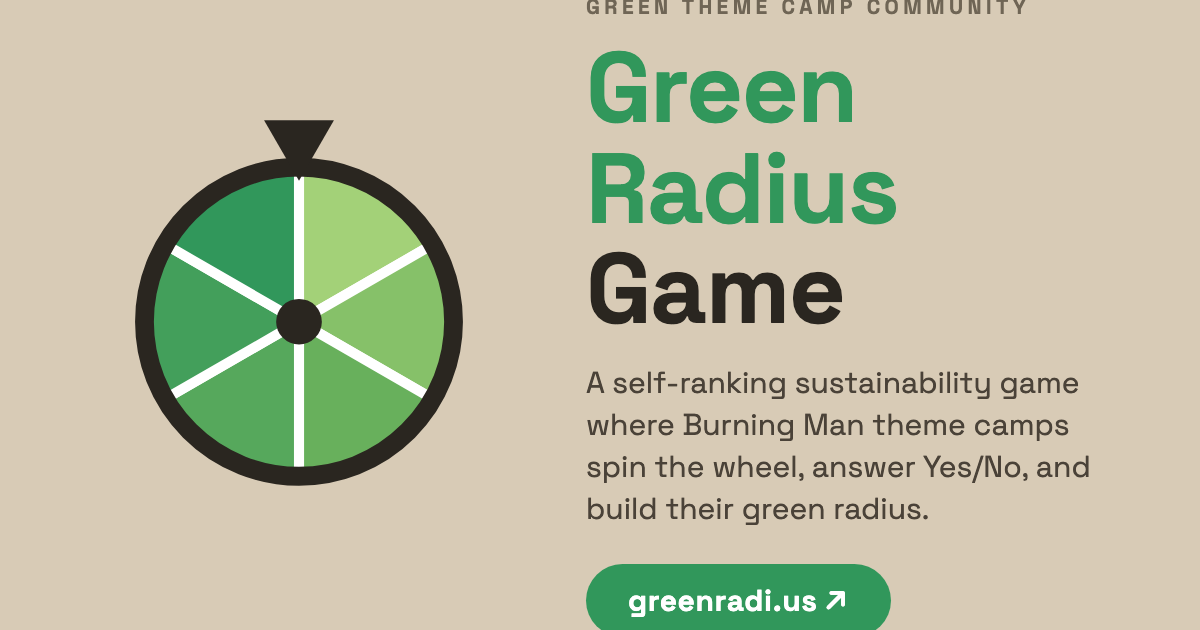
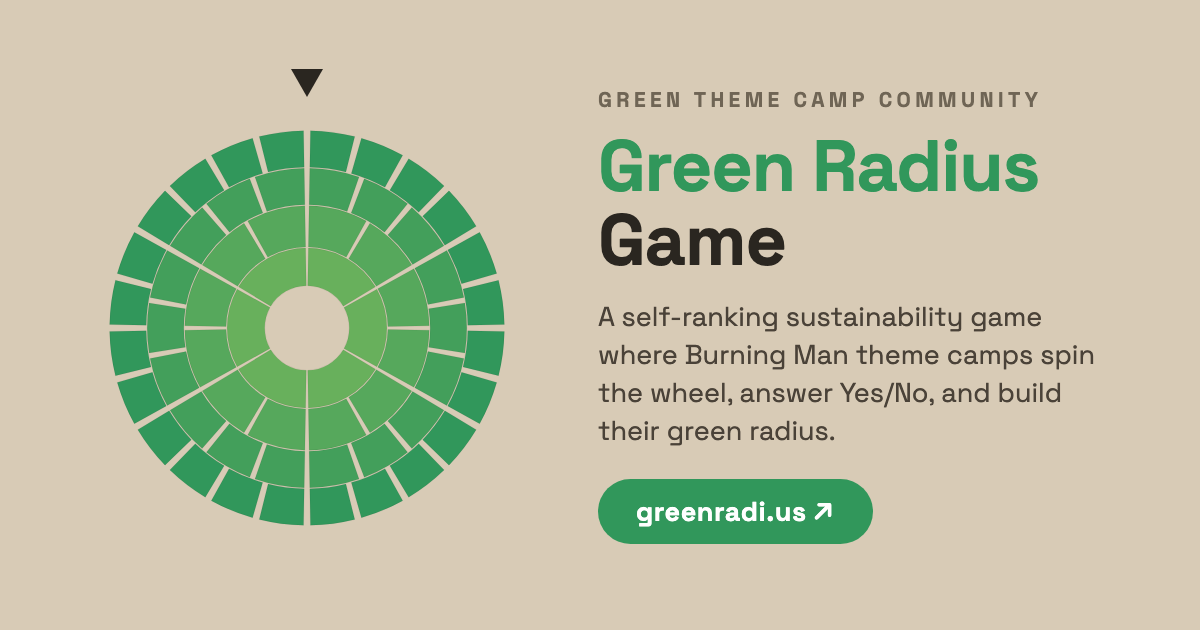
og-card: real 60-segment RadialBadge wheel, Green Radius on one line
The card's wheel is no longer a hand-drawn 6-wedge pie: scripts/og-card.html
now loads the compiled RadialBadge + game-data and renders the actual
60-segment radius (6 sectors x 4 level rings), fully lit in the game
board's LEVEL_COLORS green ramp, so the card always matches the live
board. Title sized down to 72px so "Green Radius" holds one line
(measured in the render step, not eyeballed).

Claude-Session: https://claude.ai/code/session_01MXMFasgKnr1Xai89o4vfLf

diff --git a/scripts/og-card.html b/scripts/og-card.html
@@ -1,16 +1,27 @@
 <!doctype html>
 <!-- Source for og-card.png (1200x630), the static Open Graph share image and
-     README hero. og-card.png had no source before this file; regenerate with:
+     README hero. The wheel is NOT hand-drawn: this page loads the real
+     compiled RadialBadge + game data and renders the actual 60-segment
+     radius, fully lit, so the graphic always matches the live game board
+     (geometry and the LEVEL_COLORS green ramp alike). Regenerate with:
        python3 -m http.server 8000   (repo root)
        then screenshot this page at exactly 1200x630, e.g.:
        page.setViewportSize({width:1200,height:630});
        await page.goto('http://localhost:8000/scripts/og-card.html');
+       await page.waitForFunction(() => document.querySelectorAll('#wheel svg path').length >= 60);
        await page.evaluate(() => document.fonts.ready);
        await page.screenshot({path:'og-card.png'});
      scripts/ is in .assetsignore, so this page is never served in prod. -->
 <html lang="en">
 <head>
 <meta charset="utf-8"/>
+<script defer src="/vendor/preact-10.29.7.min.umd.js"></script>
+<script defer src="/vendor/preact-hooks-10.29.7.umd.js"></script>
+<script defer src="/vendor/preact-compat-10.29.7.umd.js"></script>
+<script defer src="/vendor/preact-compat-shim-10.29.7.js"></script>
+<script defer src="/game-data.js"></script>
+<script defer src="/dist/src/core.js"></script>
+<script defer src="/dist/src/badge.js"></script>
 <style>
   @font-face {
     font-family: 'Space Grotesk';
@@ -23,50 +34,62 @@
     width: 1200px; height: 630px; overflow: hidden; box-sizing: border-box;
     background: #D8CBB6; color: #2a2620;
     font-family: 'Space Grotesk', system-ui, sans-serif;
-    display: flex; align-items: center; gap: 72px; padding: 0 84px;
+    display: flex; align-items: center; gap: 56px; padding: 0 72px;
   }
-  .wheel { flex-shrink: 0; }
+  /* The clickety pointer sits above the badge like the board's spinner arrow. */
+  .wheel-wrap { flex-shrink: 0; position: relative; padding-top: 26px; }
+  .pointer { position: absolute; top: 0; left: 50%; transform: translateX(-50%); }
   .kicker {
     font-size: 21px; font-weight: 700; letter-spacing: 0.21em;
-    color: #6f6555; margin-bottom: 18px; white-space: nowrap;
+    color: #6f6555; margin-bottom: 16px; white-space: nowrap;
   }
   h1 {
-    margin: 0 0 22px; font-size: 99px; font-weight: 700;
-    line-height: 1.02; letter-spacing: -0.015em;
+    margin: 0 0 20px; font-size: 72px; font-weight: 700;
+    line-height: 1.04; letter-spacing: -0.015em; white-space: nowrap;
   }
   h1 .green { color: #31975B; }
   .pitch {
-    font-size: 30px; line-height: 1.4; color: #4a4238;
-    max-width: 590px; margin: 0 0 34px;
+    font-size: 27px; line-height: 1.4; color: #4a4238;
+    max-width: 520px; margin: 0 0 30px;
   }
   .pill {
     display: inline-block; background: #31975B; color: #fff;
-    border-radius: 999px; padding: 17px 42px;
-    font-size: 30px; font-weight: 700; letter-spacing: 0.02em;
+    border-radius: 999px; padding: 15px 38px;
+    font-size: 27px; font-weight: 700; letter-spacing: 0.02em;
   }
 </style>
 </head>
 <body>
-  <!-- Same six-wedge wheel as the favicon and the loading placeholder, with
-       the black "clickety" pointer at the top like a board-game spinner. -->
-  <svg class="wheel" width="430" height="430" viewBox="0 0 64 64" aria-hidden="true">
-    <g>
-      <path fill="#A3D178" stroke="#fff" stroke-width="1.5" stroke-linejoin="round" d="M32 33 L32 10 A23 23 0 0 1 51.92 21.5 Z"/>
-      <path fill="#86C169" stroke="#fff" stroke-width="1.5" stroke-linejoin="round" d="M32 33 L51.92 21.5 A23 23 0 0 1 51.92 44.5 Z"/>
-      <path fill="#68B05C" stroke="#fff" stroke-width="1.5" stroke-linejoin="round" d="M32 33 L51.92 44.5 A23 23 0 0 1 32 56 Z"/>
-      <path fill="#56A85C" stroke="#fff" stroke-width="1.5" stroke-linejoin="round" d="M32 33 L32 56 A23 23 0 0 1 12.08 44.5 Z"/>
-      <path fill="#439F5B" stroke="#fff" stroke-width="1.5" stroke-linejoin="round" d="M32 33 L12.08 44.5 A23 23 0 0 1 12.08 21.5 Z"/>
-      <path fill="#31975B" stroke="#fff" stroke-width="1.5" stroke-linejoin="round" d="M32 33 L12.08 21.5 A23 23 0 0 1 32 10 Z"/>
-      <circle cx="32" cy="33" r="23" fill="none" stroke="#2a2620" stroke-width="2.8"/>
-      <circle cx="32" cy="33" r="3.4" fill="#2a2620"/>
-    </g>
-    <polygon points="32,12 26.8,3 37.2,3" fill="#2a2620"/>
-  </svg>
+  <div class="wheel-wrap">
+    <div id="wheel"></div>
+    <svg class="pointer" width="52" height="30" viewBox="0 0 52 30" aria-hidden="true">
+      <polygon points="26,30 10,2 42,2" fill="#2a2620"/>
+    </svg>
+  </div>
   <div>
     <div class="kicker">GREEN THEME CAMP COMMUNITY</div>
     <h1><span class="green">Green Radius</span><br/>Game</h1>
     <p class="pitch">A self-ranking sustainability game where Burning Man theme camps spin the wheel, answer Yes/No, and build their green radius.</p>
     <span class="pill">greenradi.us&thinsp;&#8599;</span>
   </div>
+  <script>
+    // Deferred scripts finish before DOMContentLoaded, so the globals exist here.
+    window.addEventListener('DOMContentLoaded', function () {
+      var answers = {};
+      window.SECTORS.forEach(function (s) {
+        s.levels.slice(0, 3).forEach(function (lvl) {
+          (lvl || []).forEach(function (q) { answers[q.id] = 'yes'; });
+        });
+        (s.tier4Topics || []).slice(0, 4).forEach(function (t) { answers[t.id] = 'yes'; });
+      });
+      var fills = fillsFromAnswers(window.SECTORS, answers);
+      ReactDOM.createRoot(document.getElementById('wheel')).render(
+        React.createElement(RadialBadge, {
+          sectors: window.SECTORS, fills: fills, size: 470,
+          dark: false, showLabels: false, showCenter: false,
+        })
+      );
+    });
+  </script>
 </body>
 </html>

diff --git a/CHANGELOG.md b/CHANGELOG.md
@@ -10,7 +10,7 @@ and `#NN` refer to the same release. Entries are grouped newest-first by milesto
 
 ## Roadmap round: reliability & delight (#82–)
 
-- og-card refresh: the share/hero image (`og-card.png`, also the README hero) is redesigned to match the brand - six green wheel segments (was red/orange/blue/teal), the black spinner pointer on top, "GREEN THEME CAMP COMMUNITY" kicker, "Green Radius" in green with "Game" in ink, a one-sentence pitch, and a "greenradi.us ↗" pill; the card now has a committed source (`scripts/og-card.html`, never served) instead of being a source-less PNG, and the README hero links to https://greenradi.us/ (#91)
+- og-card refresh: the share/hero image (`og-card.png`, also the README hero) is redesigned to match the brand - the real 60-segment radius graphic (rendered by the live RadialBadge component, fully lit in the game board's LEVEL_COLORS green ramp, replacing the old off-brand colors), the black spinner pointer on top, "GREEN THEME CAMP COMMUNITY" kicker, "Green Radius" in green with "Game" in ink, a one-sentence pitch, and a "greenradi.us ↗" pill; the card now has a committed source (`scripts/og-card.html`, never served) instead of being a source-less PNG, and the README hero links to https://greenradi.us/ (#91)
 - Runtime swap to Preact: the vendored React 18 + ReactDOM UMDs (~47KB gz, the biggest slice of cold-load payload) are replaced by Preact 10.29.7 core + hooks + compat UMDs plus a small first-party shim that exposes `preactCompat` as `window.React`/`window.ReactDOM` (incl. a `createRoot` mirrored from `preact/compat/client.js`) — ~10KB gz total, cutting the home page's JS payload by roughly a third; the precompiled game scripts are byte-identical, still calling `React.createElement` and hooks by those names, and all four entry points swap in the new script quartet (#91)
 - Home page load speedup: the unversioned first-party scripts (`dist/*`, `game-data.js`, `result-state.js`, `beacon.js`, `admin/aggregate.js`) now serve `Cache-Control: max-age=300, stale-while-revalidate=86400` instead of `max-age=0` — a repeat visit used to pay 13 conditional-request round-trips before running scripts it already had cached; now they run instantly and revalidate in the background (the HTML stays `max-age=0`, so deploys still show up on the next navigation). `scripts/build.js` also emits the `dist/` artifacts whitespace-minified (`minifyWhitespace`, no identifier renaming so the shared-global bare-name contract is untouched), cutting the compiled game scripts ~23% raw / ~9% gzipped (#90)
 - Admin viewer loading overhaul: the data fetch now starts from an inline kickoff in `admin/index.html` (in parallel with the script downloads) instead of waiting for React to mount, and the last good response is cached in `localStorage` so repeat visits paint the previous rows instantly (dimmed) while the fresh fetch runs; cold loads show a spinning six-wedge wheel (the favicon art) in both the static placeholder and the React loading state; the City tab's copy-digest button moved from the hero pill to the Top Camps panel's top-right corner, relabeled "Copy Summary"; docs caught up on the #85–#88 admin/result features (#89)
